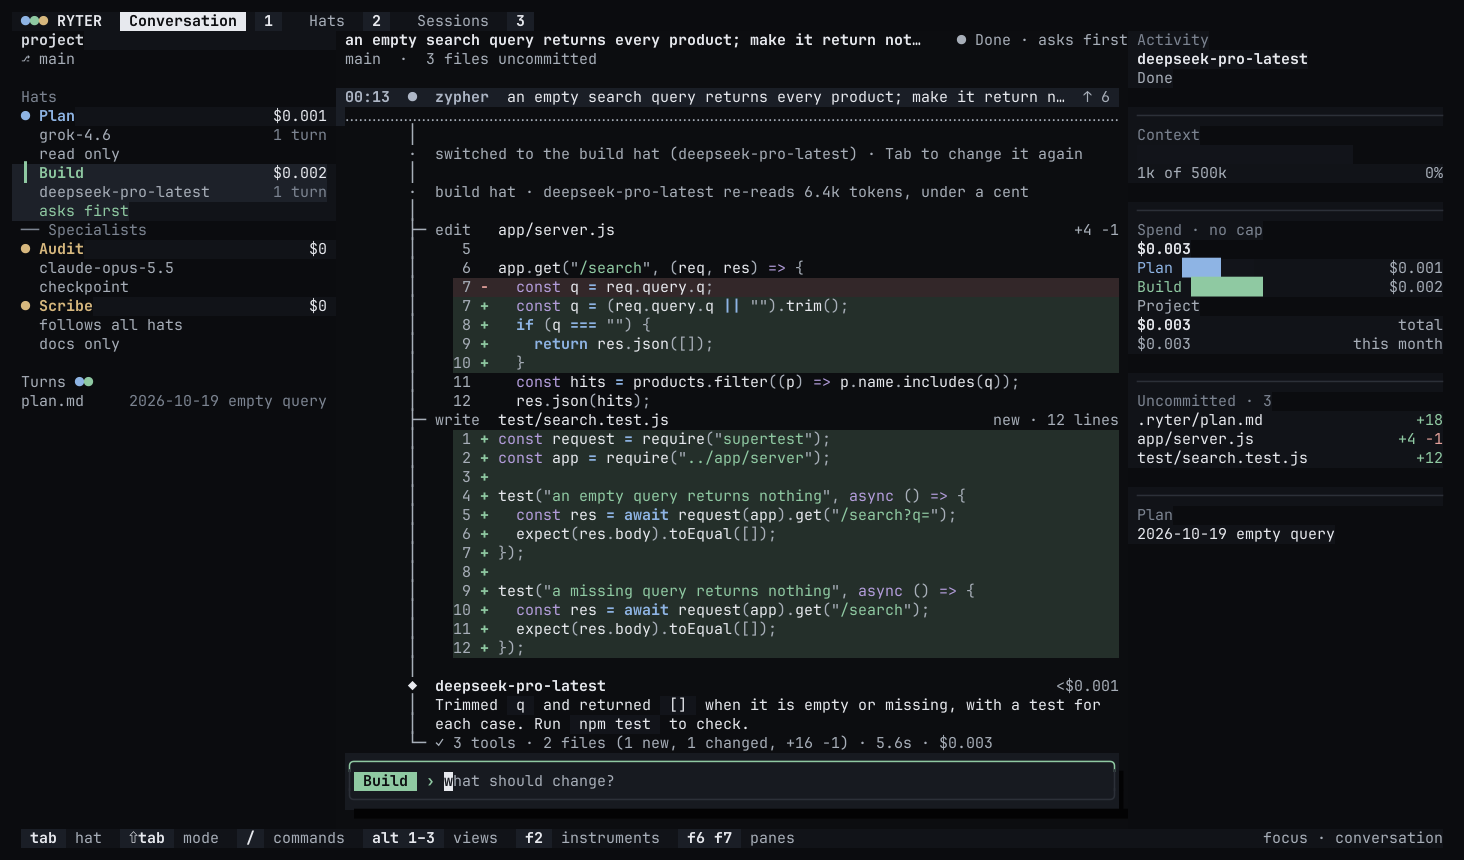
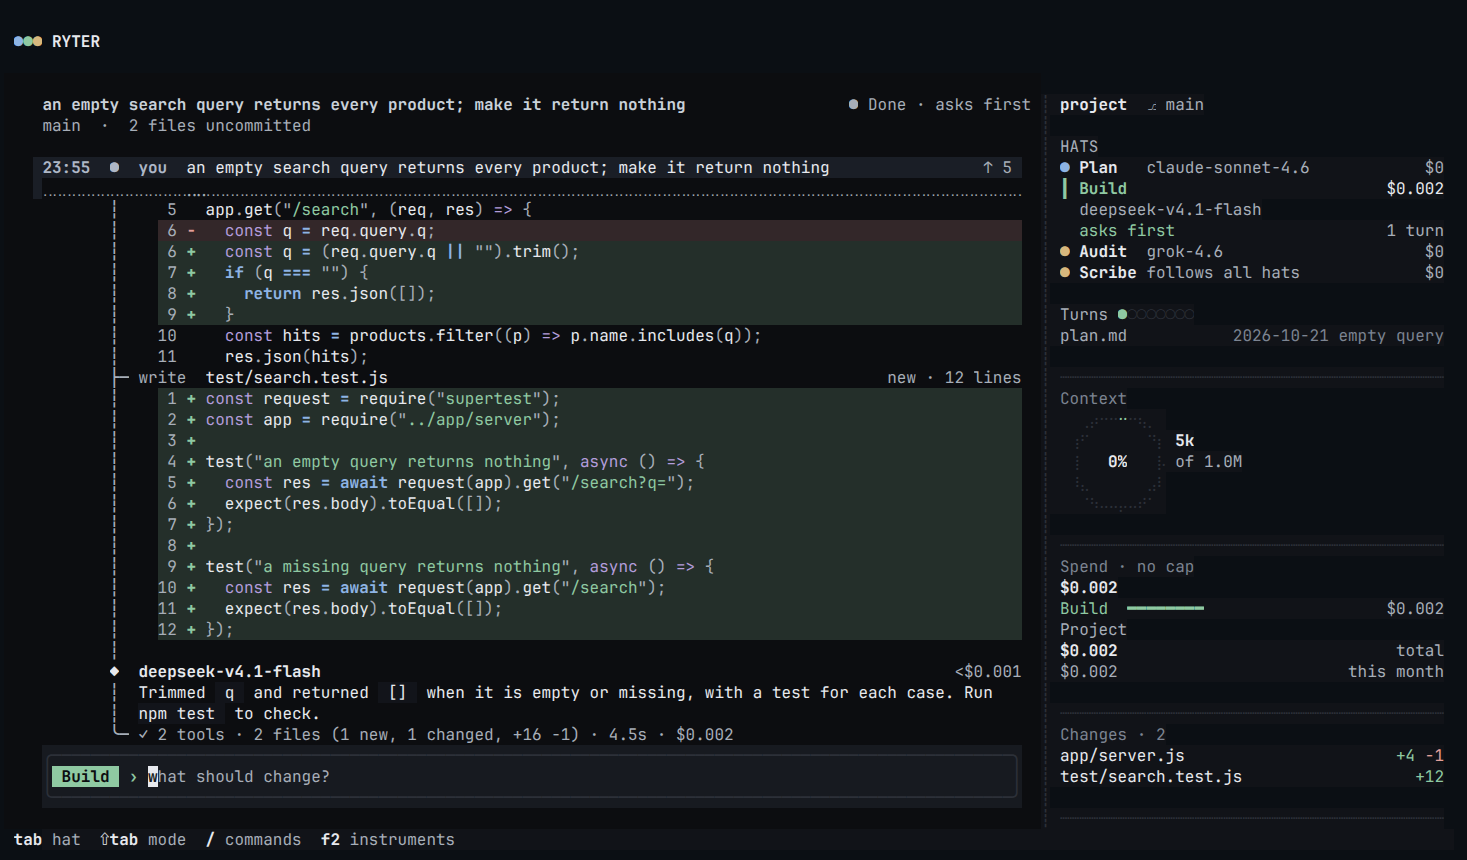
README screenshots of the one-rail screen, staged offline; how they are made

diff --git a/README.md b/README.md
@@ -4,7 +4,7 @@ Ryter is Zypher Systems’ terminal AI coding harness.
 
 One model works in your project, with you, and `Tab` switches between its two working hats, **plan** and **build**; `Shift+Tab` reaches the specialists, **audit** and **scribe**. Each hat can run on a model of its own: a strong one to plan, a cheaper one to build, a different one to audit, a small one to write the docs. Bring your own keys: **SpaceXSI**, **OpenRouter**, **Anthropic** and **OpenAI** are built in, and local model servers (Ollama, LM Studio, llama.cpp) work without one.
 
-![Ryter in the build hat: the Conversation, Hats and Sessions tabs on the top bar, the hats with their models and costs in the sidebar, the conversation in the middle with the diff of app/server.js and a new test, and the instruments at the right.](docs/screenshots/build.png)
+![Ryter in the build hat: the conversation holds the request, the diff of app/server.js and the new test file, and the reply with its cost; the rail at the right has the four hats with their models and spend, the plan on record, the context ring, the spend per hat and the two uncommitted files.](docs/screenshots/build.png)
 
 Linux first. The current release is 0.36.0. Apache-2.0.
 
@@ -49,7 +49,7 @@ One model works in your files. `Tab` cycles its hat, and the message box shows t
 | **audit** | runs everything the project has against the plan you approved, the product included, and files its findings on a card you can hand to the builder; a checkpoint puts back anything it changed |
 | **scribe** | writes the documentation and nothing else: `.md`, `.txt` and their kind; give it a cheap model |
 
-![Ryter in the plan hat. Plan is the filled chip and the marked hat in the sidebar, which carries each hat's model, its turns and their cost; the conversation still holds the diff from the build.](docs/screenshots/plan.png)
+![Ryter in the plan hat. Plan is the filled chip on the prompt and the marked hat on the rail, read only on its own model; the conversation still holds the diff from the build.](docs/screenshots/plan.png)
 
 - **A plan is approved in its own panel.** `y` saves it as `.ryter/plan.md` (and a dated copy under `.ryter/plans/`) and the build starts from that file; that is the one hat change Ryter makes on its own. Where the work later differs from it, the difference and the reason are recorded in `.ryter/decisions.md`, which an audit reads.
 - **Each hat can have its own model** (`/models`). The hats share one conversation, and Ryter says what it costs when a different model takes over.

diff --git a/ROADMAP.md b/ROADMAP.md
@@ -21,7 +21,7 @@ Dropped from the earlier candidates: "the model has the tools the job needs" (op
 
 The last release is 0.36.0. Notes for the next one collect in `docs/releases/` and an entry sits here until it ships, then moves to Done.
 
-- **A first run starts on the key you exported (dev, unreleased).** From the outside gap analysis of 0.36.0: the quick start with only `OPENROUTER_API_KEY` failed on the keyless built-in default; now a keyed connection wins over one without, the All hats model stays on its own connection, and the web guard's test no longer depends on the machine's DNS. `DECISIONS.md` 2026-10-21. Still owed from the same report: the GitHub description (it sells the crew removed on 2026-10-01) and README screenshots of the current screen.
+- **A first run starts on the key you exported (dev, unreleased).** From the outside gap analysis of 0.36.0: the quick start with only `OPENROUTER_API_KEY` failed on the keyless built-in default; now a keyed connection wins over one without, the All hats model stays on its own connection, and the web guard's test no longer depends on the machine's DNS. `DECISIONS.md` 2026-10-21. From the same report: the GitHub description no longer sells the crew removed on 2026-10-01, and the README screenshots show the one-rail screen (staged offline, `docs/screenshots/HOW.md`).
 - **Selecting with the mouse (from 0.24.0): untried by a person.** It shipped driven with scripted mouse reports and a stand-in clipboard tool only. One drag and paste in a real terminal with a real clipboard, on Linux and on a Mac, is still owed; what it shows goes into the next patch.
 - **A real `sudo` (from 0.23.0): done on Linux.** The user ran an approved root command with their own password on the published 0.23.0 on 2026-10-07 and the prompt worked as expected. A Mac is still untried.
 - **1.0 item 1 (flow on a real project): closed 2026-10-14** (recorded in 0.28.0). Further ask friction from fiscus/tunes stays under Next (item 2). G4 closed the nested-scratch and tmux-scope holes in 0.29.0.

diff --git a/docs/screenshots/HOW.md b/docs/screenshots/HOW.md
@@ -1,0 +1,5 @@
+# The screenshots
+
+`build.png` and `plan.png` are the README's pictures of the screen. They are staged, not taken from a paid session: the real binary runs in tmux at 152×40 against `scripts/simulated_provider.py`, with one connection pointed at it and a model per hat named in its config, a small Express project with a plan on record, and the build turn's edits and reply scripted. The screen is captured with `tmux capture-pane -e`, each cell drawn at a fixed width in JetBrains Mono at 16 px, and rendered by headless Chromium to 1467×860.
+
+The model names on the rail are the seats the config names; the replies are the script's, not those models'. The costs are what Ryter charged the scripted token counts at the prices in that config. Retake them when the screen changes.

diff --git a/docs/sidebar-design.md b/docs/sidebar-design.md
@@ -311,7 +311,7 @@ now
 
 ## 13. Documentation that changes with the work
 
-- `README.md`: `docs/screenshots/build.png` and its alt text show the hat rack and the side panel; owed new ones since 0.25.0, taken on this screen.
+- `README.md`: `docs/screenshots/build.png` and `plan.png` with their alt text; retaken on the one-rail screen on 2026-10-21 (`docs/screenshots/HOW.md`).
 - `docs/guide.md`: "The screen" (the top bar, the hat rack, the watermark, the instruments, `^b`, the status line, the colours, `[ui] watermark`), the keys table, `/settings`. `config.example.toml`: the `watermark` line.
 - `design.md`: the solo-screen requirements that name the rack, the top bar or the watermark.
 - `docs/hat-rack-design.md` and `docs/specialists-design.md`: a status line at the top pointing here.
